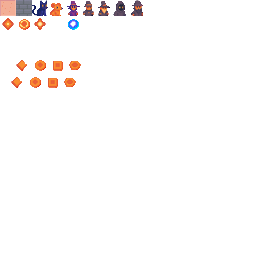
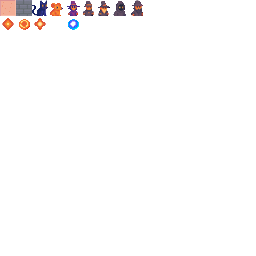
Some cleaning to go back under the 13kb limit
- Remove the unused Enemy class
- Remove the useless random game mode
- Clean some useless code
- Clean the tiles.png, where I forgot a backup layer who was weighing
  down the project for nothing...

Changed region(s): [[0.0312, 0.2188, 0.3125, 0.3438]]

diff --git a/game.js b/game.js
@@ -5,9 +5,6 @@
 
 'use strict';
 
-// show the LittleJS splash screen
-setShowSplashScreen(false);
-
 // fix texture bleeding by shrinking tile slightly
 tileFixBleedScale = .5;
 
@@ -35,28 +32,6 @@ function gameInit()
     const pos = vec2();
     const tileLayer = new TileLayer(pos, tileCollisionSize);
 
-    // get level data from the tiles image
-    // const tileImage = textureInfos[0].image;
-    // mainContext.drawImage(tileImage,0,0);
-    // const imageData = mainContext.getImageData(0,0,tileImage.width,tileImage.height).data;
-    // for (pos.x = tileCollisionSize.x; pos.x--;)
-    // for (pos.y = tileCollisionSize.y; pos.y--;)
-    // {
-    //     // check if this pixel is set
-    //     const i = pos.x + tileImage.width*(15 + tileCollisionSize.y - pos.y);
-    //     if (!imageData[4*i])
-    //         continue;
-        
-    //     // set tile data
-    //     const tileIndex = 0;
-    //     const direction = randInt(4)
-    //     const mirror = !randInt(2);
-    //     const color = randColor();
-    //     const data = new TileLayerData(tileIndex, direction, mirror, color);
-    //     tileLayer.setData(pos, data);
-    //     setTileCollisionData(pos, 1);
-    // }
-
     // Adding walls all around the map
     for(let x = 0; x < screen_width; x++) {
         for(let y = 0; y < screen_height; y++) {
@@ -81,7 +56,6 @@ function gameInit()
     // Create witch
     witch = new Witch(vec2(16,12));
 
-
     tileLayer.redraw();
 
     // Load best score from localStorage (persisted between sessions)
@@ -104,55 +78,14 @@ function gameUpdate()
         if(keyWasPressed('KeyR')) {
             launchGame();
         }
-        if(keyWasPressed('KeyM')) {
-            inMenu = true;
-            gameOver = false;
-        }
         return;
     } else if (inMenu) {
         // Handle mode selection from menu
         // Keyboard shortcuts
-        if (keyWasPressed('KeyW')) {
-            gameMode = 'wave';
+        if (keyWasPressed('Space')) {
             inMenu = false;
             launchGame();
         }
-        if (keyWasPressed('KeyR')) {
-            gameMode = 'random';
-            inMenu = false;
-            launchGame();
-        }
-
-        // Mouse click on on-screen buttons
-        if (mouseWasPressed(0)) {
-            // Convert world mouse to screen coordinates
-            const mouseScreen = mousePos.subtract(cameraPos).scale(cameraScale).add(vec2(mainCanvasSize.x/2, mainCanvasSize.y/2));
-
-            // Button bounds (computed to match draw positions in gameRenderPost)
-            const btnSize = 40;
-            const makeBounds = (center, text) => {
-                const estimatedWidth = text.length * btnSize * 0.6;
-                const halfW = estimatedWidth / 2;
-                const halfH = btnSize * 0.7 / 2;
-                return { x0: center.x - halfW, y0: center.y - halfH, x1: center.x + halfW, y1: center.y + halfH };
-            };
-            const waveCenter = vec2(mainCanvasSize.x/2 - 120, mainCanvasSize.y/2 + 20);
-            const randomCenter = vec2(mainCanvasSize.x/2 + 120, mainCanvasSize.y/2 + 20);
-            const waveBounds = makeBounds(waveCenter, 'Wave Mode');
-            const randomBounds = makeBounds(randomCenter, 'Random Mode');
-
-            const inside = (p, b) => p.x >= b.x0 && p.x <= b.x1 && p.y >= b.y0 && p.y <= b.y1;
-            if (inside(mouseScreen, waveBounds)) {
-                gameMode = 'wave';
-                inMenu = false;
-                launchGame();
-            } else if (inside(mouseScreen, randomBounds)) {
-                gameMode = 'random';
-                inMenu = false;
-                launchGame();
-            }
-        }
-        return;
     }
 
     if (mouseWheel)
@@ -177,7 +110,7 @@ function gameUpdate()
     }
 
     // Wave progression with delay: when all enemies are cleared, start a countdown before the next wave
-    if (!inMenu && !gameOver && gameMode === 'wave') {
+    if (!inMenu && !gameOver) {
         if (enemies.length === 0) {
             if (!pendingNextWave) {
                 pendingNextWave = true;
@@ -307,20 +240,12 @@ function gameRenderPost()
             hsl(0,0,1));
 
         // Instruction
-        drawTextScreen('Select a Mode:',
+        drawTextScreen('Press space to start',
             vec2(mainCanvasSize.x/2, mainCanvasSize.y/2), 40,
             hsl(0,0,1));
-
-        // Buttons as clickable text
-        drawTextScreen('Wave Mode (W)',
-            vec2(mainCanvasSize.x/2, mainCanvasSize.y/2 + 60), 40,
-            hsl(0.6,0.8,0.8));
-        drawTextScreen('Random Mode (R)',
-            vec2(mainCanvasSize.x/2, mainCanvasSize.y/2 + 100), 40,
-            hsl(0.1,0.8,0.8));
     } else if (!gameOver) {
         // draw to overlay canvas for hud rendering
-        let waveInfo = gameMode == 'random' ? '' : ` | Wave : ${currentWaveIndex + 1}`;
+        let waveInfo = ` | Wave : ${currentWaveIndex + 1}`;
         drawTextScreen(`Score: ${score} | Best : ${bestScore}${waveInfo}`,
             vec2(mainCanvasSize.x/2, 70), 40,   // position, size
             hsl(0,0,1));         // color, outline size and color
@@ -332,7 +257,7 @@ function gameRenderPost()
     }
 
     if (gameOver) {
-        drawTextScreen('Game Over! Press R to Restart | M for Menu',
+        drawTextScreen('Game Over! Press R to Restart',
             vec2(mainCanvasSize.x/2, mainCanvasSize.y/2), 60,
             hsl(0,1,0.5), 6, hsl(0,0,0));
     }

diff --git a/helpers.js b/helpers.js
@@ -1,10 +1,3 @@
-function spawnEnemies(type, qty) {
-    for(let i = 0; i < qty; i++) {
-        const enemy = new type(vec2(randInt(2,screen_width - 2), randInt(2,screen_height - 2)));
-        enemies.push(enemy);
-    }
-}
-
 function clearChaos() {
     for (const enemy of enemies) enemy.destroy();
     enemies = [];
@@ -75,20 +68,11 @@ function launchGame() {
     for (const mouse of mouses) mouse.destroy();
     mouses = [];
 
-    if (gameMode === 'random') {
-        // Random mode, preserve original behavior
-        spawnEnemies(Shooter, 3);
-        spawnEnemies(Magician, 5);
-        spawnEnemies(Wizard, 2);
-        spawnEnemies(Mage, 2);
-    } else {
-        // Wave mode
-        currentWaveIndex = 0;
-        // First wave spawns immediately; clear any pending delay
-        pendingNextWave = false;
-        waveDelayFrames = 0;
-        spawnWave(currentWaveIndex);
-    }
+    currentWaveIndex = 0;
+    // First wave spawns immediately; clear any pending delay
+    pendingNextWave = false;
+    waveDelayFrames = 0;
+    spawnWave(currentWaveIndex);
 
     // Create mouses
     for (let i = 0; i < 3; i++) {

diff --git a/classes/shooter.js b/classes/shooter.js
@@ -17,7 +17,7 @@ class Shooter extends EngineObject {
         // Shoot projectiles
         if (this.shootCooldown <= 0) {
             this.shootDirection = vec2(Math.cos(this.shootAngle), Math.abs(Math.sin(this.shootAngle)) * -1);
-            const projectile = new Bullet(this.pos, this.shootDirection, hsl(0,1,0.5), 0, 0.005, 3000);
+            const projectile = new Bullet(this.pos, this.shootDirection, new Color(0.2,0.5,1,1), 0, 0.005, 3000);
             projectiles.push(projectile);
 
             this.shootCooldown = 10;

diff --git a/globals.js b/globals.js
@@ -17,13 +17,12 @@ var gameOver = false;
 var inMenu = true;
 var characterSize = vec2(1.5,1.5);
 
-// game mode and wave data
-// gameMode can be 'random' or 'wave'
-var gameMode = 'random';
+// Wave data
 var currentWaveIndex = 0;
 // Inter-wave delay (in frames). 300 frames ~= 5 seconds at 60fps
 var waveDelayFrames = 0;
 var pendingNextWave = false;
+
 // Deterministic waves definition: arrays of enemy positions per type
 // Positions are tile coordinates [x, y]
 var waves = [

diff --git a/index.html b/index.html
@@ -13,7 +13,6 @@
     <script src=classes/mage.js></script>
     <script src=classes/bullet.js></script>
     <script src=classes/turning-bullet.js></script>
-    <script src=classes/enemy.js></script>
     <script src=classes/mouse.js></script>
     <script src=classes/player.js></script>
     <script src=classes/sbire.js></script>

diff --git a/build.js b/build.js
@@ -12,7 +12,6 @@ const sourceFiles =
 [
     'dist/littlejs.reduced.js',
     'classes/bullet.js',
-    'classes/enemy.js',
     'classes/magician.js',
     'classes/mage.js',
     'classes/mouse.js',
